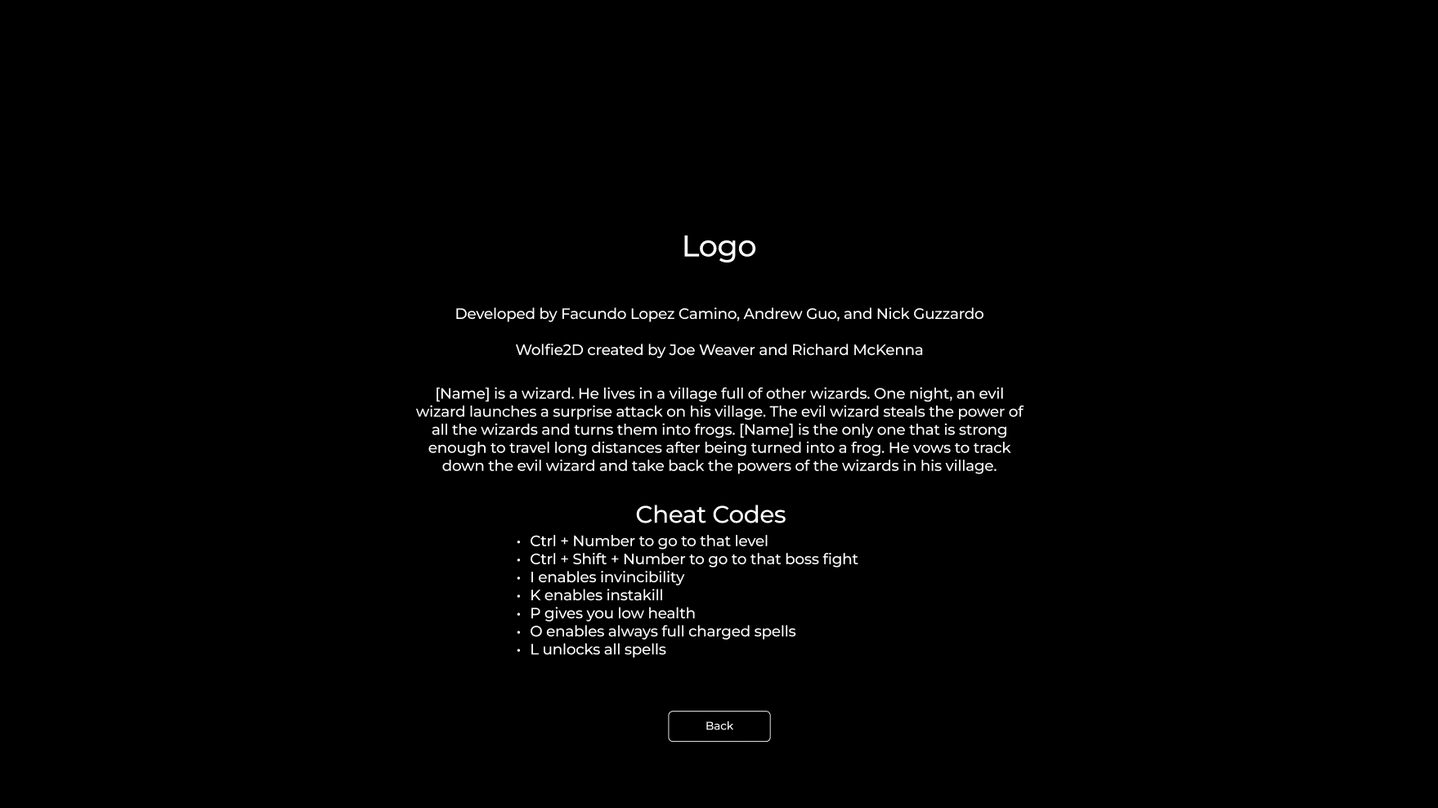
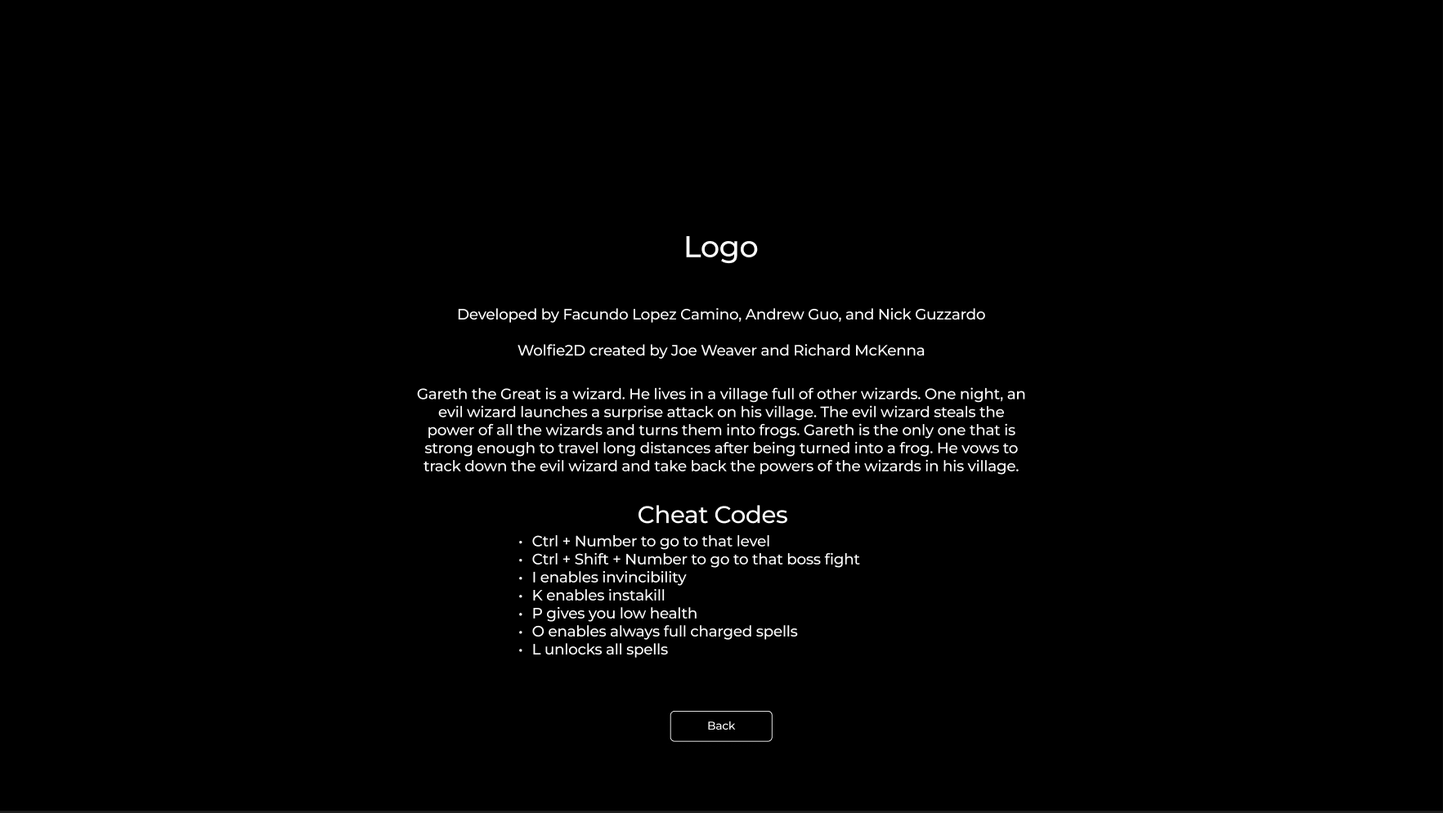
Update design doc

diff --git a/public/benchmark1/index.html b/public/benchmark1/index.html
@@ -803,50 +803,12 @@ input {
 </style><title>Amphibious Arcana</title>
 </head>
 <body class='typora-export os-windows'><div class='typora-export-content'>
-<div id='write'  class=''><h1 id='amphibious-arcana'><span>Amphibious Arcana</span></h1><p><span>by Facundo Lopez Camino, Andrew Guo, and Nick Guzzardo</span></p><h2 id='introduction'><span>Introduction</span></h2><p><span>This document describes a game called “FrogWizard’s Odyssey”. It is a 2D side scrolling, platformer game. The game will employ a variety of bosses which will allow the player to acquire new abilities for them to use in the remainder of their quest.</span></p><h2 id='technology'><span>Technology</span></h2><p><span>FrogWizard’s Odyssey will be developed using the Wolfie 2D game engine. Music will be created using [Music/Audio program] and sound effects will be created from Chiptone. Sprites and other artworks will be created through piskel or taken from the existing Sprites page.</span></p><h2 id='backstory'><span>Backstory</span></h2><p><span>[Name] is a wizard. He lives in a village full of other wizards. One night, an evil wizard launches a surprise attack on his village. The evil wizard steals the power of all the wizards and turns them into frogs. [Name] is the only one that is strong enough to travel long distances after being turned into a frog. He vows to track down the evil wizard and take back the powers of the wizards in his village.</span></p><h2 id='objective'><span>Objective</span></h2><p><span>[Name] journeys across the land searching for traces of the evil wizard. He comes across many powerful enemies that might’ve been the evil wizard’s minions. After defeating each powerful enemy, he regains one of the powers he has lost. Eventually, with some of his power back, he needs to defeat the evil wizard at the end and turn everyone back to normal.</span></p><h2 id='gameplay'><span>Gameplay</span></h2><p><span>The game will be a side scroller with a mixture of vertical and horizontal platforming. There will also be boss fights at the end of every 2 levels.</span></p><p><span>[Name] has multiple abilities he can use to attack and move around:</span></p><ul><li><p><span>Tongue swinging/grappling/attacking</span></p></li><li><p><span>Fireballs can be thrown at enemies or thrown underneath [Name] to propel him forward in the air</span></p></li><li><p><span>Ice Blast can be used to freeze enemies into blocks of ice [Name] can jump on, or for just stunning larger enemies</span></p></li></ul><p><span>The game will have 6 levels.</span></p><ul><li><p><span>Levels 1 &amp; 2 will allow the player to get used to movement and combat using just the tongue ability. The boss fight at the end of level 2 will focus on close range combat. After killing this boss, the player will unlock the Fireball spell.</span></p></li><li><p><span>Levels 3 &amp; 4 will now allow the player to use fireballs to attack enemies, as well as use the fireball explosions to propel them across the level during the platforming. The boss fight at the end of level 4 will focus on longer range combat. After killing this boss, the player will unlock the Ice Blast spell.</span></p></li><li><p><span>Levels 5 &amp; 6 will now allow the player to shoot ice at enemies to freeze and stun them in place. Smaller enemies will turn into ice blocks which the player can jump on to aid in traversing the level. The boss fight at the end of level 6 combines everything the player has learned so far. After killing this boss, the game ends and the player has won.</span></p></li></ul><h2 id='controls'><span>Controls</span></h2><p><span>The game will be played with both a keyboard and a mouse. The mouse will be used for aiming, and the following keybinds will be used:</span></p><ul><li><p><strong><span>W</span></strong><span> - Jump</span></p></li><li><p><strong><span>A</span></strong><span> - Walk left</span></p></li><li><p><strong><span>D</span></strong><span> - Walk right</span></p></li><li><p><strong><span>1</span></strong><span> - Select Spell 1 (Tongue)</span></p></li><li><p><strong><span>2</span></strong><span> - Select Spell 2 (Fireball)</span></p></li><li><p><strong><span>3</span></strong><span> - Select Spell 3 (Ice Blast)</span></p></li><li><p><strong><span>Left Click</span></strong><span> - Cast spell</span></p></li><li><p><strong><span>Left Click (Hold)</span></strong><span> - Charge spell and cast on release</span></p></li><li><p><strong><span>ESC</span></strong><span> - Pause game</span></p><table border="2" cellspacing="0" cellpadding="6" rules="groups" frame="hsides"><p>&nbsp;</p><p><colgroup>
-<col  class="org-right" /></p><p><col  class="org-left" />
-</colgroup>
-<thead>
-<tr>
-<th scope="col" class="org-right"><span>Key</span></th>
-<th scope="col" class="org-left"><span>Action</span></th>
-</tr>
-</thead></p><p><tbody>
-<tr>
-<td class="org-right"><span>W</span></td>
-<td class="org-left"><span>Jump</span></td>
-</tr></p><p><tr>
-<td class="org-right"><span>A</span></td>
-<td class="org-left"><span>Walk left</span></td>
-</tr></p><p><tr>
-<td class="org-right"><span>D</span></td>
-<td class="org-left"><span>Walk right</span></td>
-</tr></p><p><tr>
-<td class="org-right"><span>1</span></td>
-<td class="org-left"><span>Select spell 1 (Tongue)</span></td>
-</tr></p><p><tr>
-<td class="org-right"><span>2</span></td>
-<td class="org-left"><span>Select spell 2 (Fireball)</span></td>
-</tr></p><p><tr>
-<td class="org-right"><span>3</span></td>
-<td class="org-left"><span>Select spell 3 (Ice Blast)</span></td>
-</tr></p><p><tr>
-<td class="org-right"><span>Left Click</span></td>
-<td class="org-left"><span>Cast spell</span></td>
-</tr></p><p><tr>
-<td class="org-right"><span>Left Click (Hold)</span></td>
-<td class="org-left"><span>Charge spell and cast on release</span></td>
-</tr></p><p><tr>
-<td class="org-right"><span>ESC</span></td>
-<td class="org-left"><span>Pause game</span></td>
-</tr>
-</tbody>
-</table></p></li></ul><p><span>or</span></p><figure><table><thead><tr><th style='text-align:right;' ><span>Key</span></th><th><span>Action</span></th></tr></thead><tbody><tr><td style='text-align:right;' ><span>W</span></td><td><span>Jump</span></td></tr><tr><td style='text-align:right;' ><span>A</span></td><td><span>Walk left</span></td></tr><tr><td style='text-align:right;' ><span>D</span></td><td><span>Walk right</span></td></tr><tr><td style='text-align:right;' ><span>1</span></td><td><span>Select spell 1 (Tongue)</span></td></tr><tr><td style='text-align:right;' ><span>2</span></td><td><span>Select spell 2 (Fireball)</span></td></tr><tr><td style='text-align:right;' ><span>3</span></td><td><span>Select spell 3 (Ice Blast)</span></td></tr><tr><td style='text-align:right;' ><span>Left Click</span></td><td><span>Cast Spell</span></td></tr><tr><td style='text-align:right;' ><span>Left Click (Hold)</span></td><td><span>Charge spell and cast on release</span></td></tr><tr><td style='text-align:right;' ><span>ESC</span></td><td><span>Pause game</span></td></tr></tbody></table></figure><p>&nbsp;</p><h2 id='graphical-user-interface'><span>Graphical User Interface</span></h2><p><span>For the GUI, we have several screens:</span></p><ul><li><p><strong><span>Splash Screen</span></strong><span> - The screen the player sees when launching the game. It features the game</span>&rsquo;<span>s logo with a prompt to click anywhere to continue.</span>
+<div id='write'  class=''><h1 id='amphibious-arcana'><span>Amphibious Arcana</span></h1><p><span>by Facundo Lopez Camino, Andrew Guo, and Nick Guzzardo</span></p><h2 id='introduction'><span>Introduction</span></h2><p><span>This document describes a game called &quot;Amphibious Arcana&quot;. It is a 2D side scrolling, platformer game. The game will employ a variety of bosses which will allow the player to acquire new abilities for them to use in the remainder of their quest.</span></p><h2 id='technology'><span>Technology</span></h2><p><span>Amphibious Arcana will be developed using the Wolfie 2D game engine, which is a TypeScript based game engine developed by Richard McKenna. Music will be created using Aurdor and sound effects will be created from an Akai MPC One and Chiptone. Sprites and other artworks will be created using Piskel or taken from the existing Sprites page.</span></p><h2 id='backstory'><span>Backstory</span></h2><p><span>Gareth the Great is a wizard. He lives in a village full of other wizards. One night, an evil wizard launches a surprise attack on his village. The evil wizard steals the power of all the wizards and turns them into frogs. Gareth is the only one that is strong enough to travel long distances after being turned into a frog. He vows to track down the evil wizard and take back the powers of the wizards in his village.</span></p><h2 id='objective'><span>Objective</span></h2><p><span>Gareth the Great journeys across the land searching for traces of the evil wizard. He comes across many powerful enemies that might’ve been the evil wizard’s minions. After defeating each powerful enemy, he regains one of the powers he has lost. Eventually, with some of his power back, he needs to defeat the evil wizard at the end and turn everyone back to normal.</span></p><h2 id='gameplay'><span>Gameplay</span></h2><p><span>The game will be a side scroller with a mixture of vertical and horizontal platforming. There will also be boss fights at the end of every 2 levels.</span></p><p><span>Gareth the Great has multiple abilities he can use to attack and move around:</span></p><ul><li><p><span>Tongue swinging/grappling/attacking</span></p></li><li><p><span>Fireballs can be thrown at enemies or thrown underneath Gareth to propel him forward in the air</span></p></li><li><p><span>Ice Blast can be used to freeze enemies into blocks of ice Gareth can jump on, or for just stunning larger enemies</span></p></li></ul><p><span>The game will have 6 levels.</span></p><ul><li><p><span>Levels 1 &amp; 2 will allow the player to get used to movement and combat using just the tongue ability. The boss fight at the end of level 2 will focus on close range combat. After killing this boss, the player will unlock the Fireball spell.</span></p></li><li><p><span>Levels 3 &amp; 4 will now allow the player to use fireballs to attack enemies, as well as use the fireball explosions to propel them across the level during the platforming. The boss fight at the end of level 4 will focus on longer range combat. After killing this boss, the player will unlock the Ice Blast spell.</span></p></li><li><p><span>Levels 5 &amp; 6 will now allow the player to shoot ice at enemies to freeze and stun them in place. Smaller enemies will turn into ice blocks which the player can jump on to aid in traversing the level. The boss fight at the end of level 6 combines everything the player has learned so far. After killing this boss, the game ends and the player has won.</span></p></li></ul><h2 id='controls'><span>Controls</span></h2><p><span>The game will be played with both a keyboard and a mouse. The mouse will be used for aiming, and the following keybinds will be used:</span></p><figure><table><thead><tr><th style='text-align:right;' ><span>Key</span></th><th><span>Action</span></th></tr></thead><tbody><tr><td style='text-align:right;' ><strong><span>W</span></strong></td><td><span>Jump</span></td></tr><tr><td style='text-align:right;' ><strong><span>A</span></strong></td><td><span>Walk left</span></td></tr><tr><td style='text-align:right;' ><strong><span>D</span></strong></td><td><span>Walk right</span></td></tr><tr><td style='text-align:right;' ><strong><span>1</span></strong></td><td><span>Select spell 1 (Tongue)</span></td></tr><tr><td style='text-align:right;' ><strong><span>2</span></strong></td><td><span>Select spell 2 (Fireball)</span></td></tr><tr><td style='text-align:right;' ><strong><span>3</span></strong></td><td><span>Select spell 3 (Ice Blast)</span></td></tr><tr><td style='text-align:right;' ><strong><span>Left Click</span></strong></td><td><span>Cast Spell</span></td></tr><tr><td style='text-align:right;' ><strong><span>Left Click (Hold)</span></strong></td><td><span>Charge spell and cast on release</span></td></tr><tr><td style='text-align:right;' ><strong><span>ESC</span></strong></td><td><span>Pause game</span></td></tr></tbody></table></figure><h2 id='graphical-user-interface'><span>Graphical User Interface</span></h2><p><span>For the GUI, we have several screens:</span></p><ul><li><p><strong><span>Splash Screen</span></strong><span> - The screen the player sees when launching the game. It features the game</span>&rsquo;<span>s logo with a prompt to click anywhere to continue.</span>
 <img src="images/splash.png" referrerpolicy="no-referrer" alt="img"></p></li></ul><p><span>  </span></p><ul><li><p><strong><span>Main Menu</span></strong><span> - From here the player can start the game, go to Level Select, go to Controls, or go to Help.</span>
 <img src="images/mainmenu.png" referrerpolicy="no-referrer" alt="img"></p></li></ul><p><span>  </span></p><ul><li><p><strong><span>Level Select Screen</span></strong><span> - This screen will show the current unlocked levels for the player, and the player can click a level to start playing it.</span>
 <img src="images/levelselect.png" referrerpolicy="no-referrer" alt="img"></p></li></ul><p><span>  </span></p><ul><li><p><strong><span>Controls Screen</span></strong><span> - This screen shows all of the controls user to play the game.</span>
 <img src="images/controls.png" referrerpolicy="no-referrer" alt="img"></p></li></ul><p><span>  </span></p><ul><li><p><strong><span>Help Screen</span></strong><span> - This screen shows the player the backstory of the game, who it was developed by, and shows the cheat codes that can be used in-game.</span>
 <img src="images/help.png" referrerpolicy="no-referrer" alt="img"></p></li></ul><p><span>  </span></p><ul><li><p><strong><span>In-Game Screen</span></strong><span> - This is the gameplay screen itself. The player can see their health, spells, and charge meter in the top-left of the screen. During boss fights, the bosses health bar and name will appear at the bottom-center of the screen. The player can pause and a menu will popup allowing them to continue or quit the game.</span>
-<img src="images/ingame.png" referrerpolicy="no-referrer" alt="img"></p></li></ul><h2 id='artwork'><span>Artwork</span></h2><p><span>All artwork in the game will be original. The following needs to be created:</span></p><ul><li><p><strong><span>Frog</span></strong><span> - [Name] will be a frog sprite dressed in a blue cape and blue hat. He will require the animations:</span></p><ul><li><p><span>Walking right</span></p></li><li><p><span>Walking left</span></p></li><li><p><span>Jumping right</span></p></li><li><p><span>Jumping left</span></p></li><li><p><span>Jumping up</span></p></li><li><p><span>Landing</span></p></li><li><p><span>Landing at high speed</span></p></li><li><p><span>Taking damage</span></p></li><li><p><span>Dying</span></p></li><li><p><span>Dead</span></p></li><li><p><span>Generate spell</span></p></li><li><p><span>Cast Spell</span></p></li></ul></li><li><p><strong><span>Fire Ant</span></strong><span> - One of the enemies casted by the evil wizard</span></p><ul><li><p><span>Walking right</span></p></li><li><p><span>Walking left</span></p></li><li><p><span>Attacking</span></p></li><li><p><span>Taking Damage</span></p></li><li><p><span>Dying</span></p></li><li><p><span>Dead</span></p></li></ul></li><li><p><span>Other enemies will be created or taken from the Sprites page</span></p></li></ul><h2 id='sound-effects'><span>Sound Effects</span></h2><p><span>We will have sounds to coincide with the following events:</span></p><ul><li><p><span>Walking</span></p></li><li><p><span>Jumping</span></p></li><li><p><span>Landing on a platform</span></p></li><li><p><span>Landing on ice</span></p></li><li><p><span>Grappling</span></p></li><li><p><span>Swinging</span></p></li><li><p><span>Generating spell</span></p></li><li><p><span>Fireball exploding</span></p></li><li><p><span>Ice Blast hitting</span></p></li><li><p><span>Tongue stick</span></p></li><li><p><span>Tongue swinging</span></p></li><li><p><span>Tongue grappling</span></p></li><li><p><span>Tongue hitting</span></p></li><li><p><span>[Name] dying</span></p></li><li><p><span>Boss dying</span></p></li><li><p><span>Enemy dying</span></p></li></ul><h2 id='music'><span>Music</span></h2><p><span>Every 2 levels will have a unique soundtrack. Boss fights will require a change in music or pace in the existing soundtrack.</span></p><p>&nbsp;</p></div></div>
+<img src="images/ingame.png" referrerpolicy="no-referrer" alt="img"></p></li></ul><h2 id='artwork'><span>Artwork</span></h2><p><span>All artwork in the game will be original. The following needs to be created:</span></p><ul><li><p><strong><span>Frog</span></strong><span> - Gareth the Great will be a frog sprite dressed in a blue cape and blue hat. He will require the animations:</span></p><ul><li><p><span>Walking right</span></p></li><li><p><span>Walking left</span></p></li><li><p><span>Jumping right</span></p></li><li><p><span>Jumping left</span></p></li><li><p><span>Jumping up</span></p></li><li><p><span>Landing</span></p></li><li><p><span>Landing at high speed</span></p></li><li><p><span>Taking damage</span></p></li><li><p><span>Dying</span></p></li><li><p><span>Dead</span></p></li><li><p><span>Generate spell</span></p></li><li><p><span>Cast Spell</span></p></li></ul></li><li><p><strong><span>Fire Ant</span></strong><span> - One of the enemies casted by the evil wizard</span></p><ul><li><p><span>Walking right</span></p></li><li><p><span>Walking left</span></p></li><li><p><span>Attacking</span></p></li><li><p><span>Taking Damage</span></p></li><li><p><span>Dying</span></p></li><li><p><span>Dead</span></p></li></ul></li><li><p><span>Other enemies will be created or taken from the Sprites page</span></p></li></ul><h2 id='sound-effects'><span>Sound Effects</span></h2><p><span>We will have sounds to coincide with the following events:</span></p><ul><li><p><span>Walking</span></p></li><li><p><span>Jumping</span></p></li><li><p><span>Landing on a platform</span></p></li><li><p><span>Landing on ice</span></p></li><li><p><span>Grappling</span></p></li><li><p><span>Swinging</span></p></li><li><p><span>Generating spell</span></p></li><li><p><span>Fireball exploding</span></p></li><li><p><span>Ice Blast hitting</span></p></li><li><p><span>Tongue stick</span></p></li><li><p><span>Tongue swinging</span></p></li><li><p><span>Tongue grappling</span></p></li><li><p><span>Tongue hitting</span></p></li><li><p><span>Gareth the Great dying</span></p></li><li><p><span>Boss dying</span></p></li><li><p><span>Enemy dying</span></p></li></ul><h2 id='music'><span>Music</span></h2><p><span>Every 2 levels will have a unique soundtrack. Boss fights will require a change in music or pace in the existing soundtrack.</span></p><p>&nbsp;</p></div></div>
 </body>
 </html>

diff --git a/benchmark1/20230325112623-game_design.md b/benchmark1/20230325112623-game_design.md
@@ -1,4 +1,7 @@
-
+---
+title: Amphibious Arcana
+description: by Facundo Lopez Camino, Andrew Guo, and Nick Guzzardo
+---
 
 # Amphibious Arcana
 
@@ -6,29 +9,29 @@ by Facundo Lopez Camino, Andrew Guo, and Nick Guzzardo
 
 ## Introduction
 
-This document describes a game called “FrogWizard’s Odyssey”. It is a 2D side scrolling, platformer game. The game will employ a variety of bosses which will allow the player to acquire new abilities for them to use in the remainder of their quest.
+This document describes a game called "Amphibious Arcana". It is a 2D side scrolling, platformer game. The game will employ a variety of bosses which will allow the player to acquire new abilities for them to use in the remainder of their quest.
 
 ## Technology
 
-FrogWizard’s Odyssey will be developed using the Wolfie 2D game engine. Music will be created using [Music/Audio program] and sound effects will be created from Chiptone. Sprites and other artworks will be created through piskel or taken from the existing Sprites page.
+Amphibious Arcana will be developed using the Wolfie 2D game engine, which is a TypeScript based game engine developed by Richard McKenna. Music will be created using Aurdor and sound effects will be created from an Akai MPC One and Chiptone. Sprites and other artworks will be created using Piskel or taken from the existing Sprites page.
 
 ## Backstory
 
-[Name] is a wizard. He lives in a village full of other wizards. One night, an evil wizard launches a surprise attack on his village. The evil wizard steals the power of all the wizards and turns them into frogs. [Name] is the only one that is strong enough to travel long distances after being turned into a frog. He vows to track down the evil wizard and take back the powers of the wizards in his village.
+Gareth the Great is a wizard. He lives in a village full of other wizards. One night, an evil wizard launches a surprise attack on his village. The evil wizard steals the power of all the wizards and turns them into frogs. Gareth is the only one that is strong enough to travel long distances after being turned into a frog. He vows to track down the evil wizard and take back the powers of the wizards in his village.
 
 ## Objective
 
-[Name] journeys across the land searching for traces of the evil wizard. He comes across many powerful enemies that might’ve been the evil wizard’s minions. After defeating each powerful enemy, he regains one of the powers he has lost. Eventually, with some of his power back, he needs to defeat the evil wizard at the end and turn everyone back to normal.
+Gareth the Great journeys across the land searching for traces of the evil wizard. He comes across many powerful enemies that might’ve been the evil wizard’s minions. After defeating each powerful enemy, he regains one of the powers he has lost. Eventually, with some of his power back, he needs to defeat the evil wizard at the end and turn everyone back to normal.
 
 ## Gameplay
 
 The game will be a side scroller with a mixture of vertical and horizontal platforming. There will also be boss fights at the end of every 2 levels.
 
-[Name] has multiple abilities he can use to attack and move around:
+Gareth the Great has multiple abilities he can use to attack and move around:
 
 -   Tongue swinging/grappling/attacking
--   Fireballs can be thrown at enemies or thrown underneath [Name] to propel him forward in the air
--   Ice Blast can be used to freeze enemies into blocks of ice [Name] can jump on, or for just stunning larger enemies
+-   Fireballs can be thrown at enemies or thrown underneath Gareth to propel him forward in the air
+-   Ice Blast can be used to freeze enemies into blocks of ice Gareth can jump on, or for just stunning larger enemies
 
 The game will have 6 levels.
 
@@ -40,110 +43,17 @@ The game will have 6 levels.
 
 The game will be played with both a keyboard and a mouse. The mouse will be used for aiming, and the following keybinds will be used:
 
-- **W** - Jump
-
-- **A** - Walk left
-
-- **D** - Walk right
-
-- **1** - Select Spell 1 (Tongue)
-
-- **2** - Select Spell 2 (Fireball)
-
-- **3** - Select Spell 3 (Ice Blast)
-
-- **Left Click** - Cast spell
-
-- **Left Click (Hold)** - Charge spell and cast on release
-
--   **ESC** - Pause game
-    
-    <table border="2" cellspacing="0" cellpadding="6" rules="groups" frame="hsides">
-    
-    
-    <colgroup>
-    <col  class="org-right" />
-    
-    <col  class="org-left" />
-    </colgroup>
-    <thead>
-    <tr>
-    <th scope="col" class="org-right">Key</th>
-    <th scope="col" class="org-left">Action</th>
-    </tr>
-    </thead>
-    
-    <tbody>
-    <tr>
-    <td class="org-right">W</td>
-    <td class="org-left">Jump</td>
-    </tr>
-    
-    
-    <tr>
-    <td class="org-right">A</td>
-    <td class="org-left">Walk left</td>
-    </tr>
-    
-    
-    <tr>
-    <td class="org-right">D</td>
-    <td class="org-left">Walk right</td>
-    </tr>
-    
-    
-    <tr>
-    <td class="org-right">1</td>
-    <td class="org-left">Select spell 1 (Tongue)</td>
-    </tr>
-    
-    
-    <tr>
-    <td class="org-right">2</td>
-    <td class="org-left">Select spell 2 (Fireball)</td>
-    </tr>
-    
-    
-    <tr>
-    <td class="org-right">3</td>
-    <td class="org-left">Select spell 3 (Ice Blast)</td>
-    </tr>
-    
-    
-    <tr>
-    <td class="org-right">Left Click</td>
-    <td class="org-left">Cast spell</td>
-    </tr>
-    
-    
-    <tr>
-    <td class="org-right">Left Click (Hold)</td>
-    <td class="org-left">Charge spell and cast on release</td>
-    </tr>
-    
-    
-    <tr>
-    <td class="org-right">ESC</td>
-    <td class="org-left">Pause game</td>
-    </tr>
-    </tbody>
-    </table>
-
-or
-
-|               Key | Action                           |
-| ----------------: | -------------------------------- |
-|                 W | Jump                             |
-|                 A | Walk left                        |
-|                 D | Walk right                       |
-|                 1 | Select spell 1 (Tongue)          |
-|                 2 | Select spell 2 (Fireball)        |
-|                 3 | Select spell 3 (Ice Blast)       |
-|        Left Click | Cast Spell                       |
-| Left Click (Hold) | Charge spell and cast on release |
-|               ESC | Pause game                       |
-
-
+|                   Key | Action                           |
+| --------------------: | -------------------------------- |
+|                 **W** | Jump                             |
+|                 **A** | Walk left                        |
+|                 **D** | Walk right                       |
+|                 **1** | Select spell 1 (Tongue)          |
+|                 **2** | Select spell 2 (Fireball)        |
+|                 **3** | Select spell 3 (Ice Blast)       |
+|        **Left Click** | Cast Spell                       |
+| **Left Click (Hold)** | Charge spell and cast on release |
+|               **ESC** | Pause game                       |
 
 ## Graphical User Interface
 
@@ -181,7 +91,7 @@ For the GUI, we have several screens:
 
 All artwork in the game will be original. The following needs to be created:
 
--   **Frog** - [Name] will be a frog sprite dressed in a blue cape and blue hat. He will require the animations:
+-   **Frog** - Gareth the Great will be a frog sprite dressed in a blue cape and blue hat. He will require the animations:
     -   Walking right
     -   Walking left
     -   Jumping right
@@ -220,7 +130,7 @@ We will have sounds to coincide with the following events:
 -   Tongue swinging
 -   Tongue grappling
 -   Tongue hitting
--   [Name] dying
+-   Gareth the Great dying
 -   Boss dying
 -   Enemy dying
 
